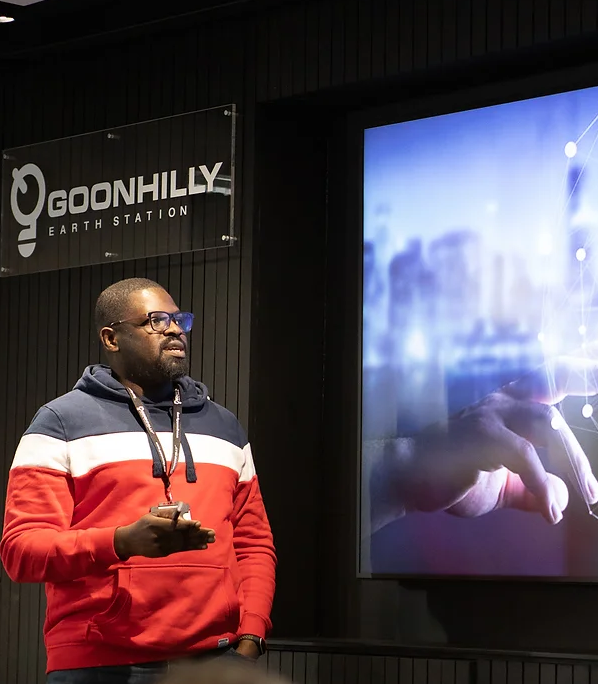
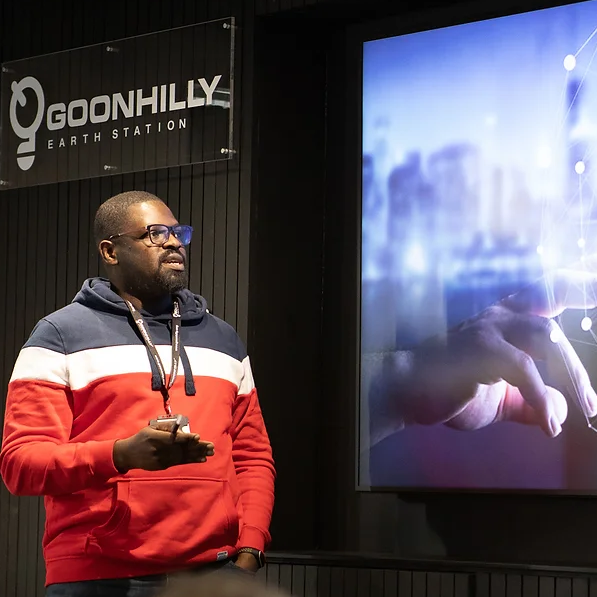
added profile updates

diff --git a/index.html b/index.html
@@ -130,20 +130,39 @@
         <!-- <li class="nav-item"><a href="#" class="nav-link">Reach Out</a></li> -->
       </ul>
     </header>
-    <hr>
+    <hr class="my-hr">
   </div>
   <div class="container col-xxl-8 px-4 py-5">
     <div class="row align-items-center g-5 py-5">
-      <div><h1 class="display-5 fw-bold text-body-emphasis lh-1 mb-3">Edward Efui Salakpi, PhD</h1></div>
-      <div class="col-10 col-sm-8 col-lg-6">
-        <img src="./assets/img/edd-profile.png" class="d-block mx-lg-auto img-fluid" alt="Bootstrap Themes" width="600" height="600" loading="lazy">
+      <div><h1 class="display-5 mb-3 page-heads">Profile</h1></div>
+      <!-- <div><h3 class="display-5 mb-3"></h3></div> -->
+      <div class="col-10 col-sm-8 col-lg-6 home-blocks">
+        <img src="./assets/img/edd-profile.png" class="d-block mx-lg-auto img-fluid" alt="Bootstrap Themes" width="500" height="500" loading="lazy">
       </div>
-      <div class="col-lg-6">
-        <p class="lead">Edward is a Remote Sensing Data Scientist working on the Forth ERA project under Scotland’s International Environment Centre (SIEC). Edwards's research includes applying data-intensive techniques to satellite remote sensing datasets to study rangeland vegetation dynamics and develop models for forecasting agricultural drought.</p>
+      <div class="col-lg-6 home-blocks">
+           <h4>Edward Efui Salakpi, PhD</h4>
+          <p class="lead">Edward is a Lead Remote Sensing Data Scientist working on the Forth ERA project under Scotland’s International Environment Centre (SIEC). Edward's research includes applying data-intensive techniques to satellite remote sensing datasets to study rangeland vegetation dynamics and develop models for forecasting agricultural drought.</p>
+          <p class="lead">Edward has a rich background and experience in Python programming, satellite Earth Observation data processing and analytics, machine learning, Deep Learning, web development, Cloud Computing (DevOps) and information systems architecture. Edward is also an instructor in the MSc. in Data and Information Systems (DIS) program at Osiri University.</p>
+      
+      </div>
+      <div><h1 class="display-5 mb-3 page-heads">Education and Qualification</h1></div>
+      <div class="col-lg-12 home-blocks">
+        <ul class="list-group list-group-flush">
+          <li class="list-group-item">
+            <div class="fw-bold">Ph.D. Data Intensive Science (Astronomy) - University of Sussex, UK (April 2018 to January 2022)</div>
+            Research: Satellite Earth Observation for Drought Modelling
+          </li>
 
-        <p class="lead">Edward has a rich background and experience in Python programming, satellite Earth Observation data processing and analytics, machine learning, web development and information systems architecture. Edward is also an instructor in the MSc. in Data and Information Systems (DIS) program at Osiri University.</p>
-        <div class="d-grid gap-2 d-md-flex justify-content-md-start">
-        </div>
+          <li class="list-group-item">
+            <div class="fw-bold">MSc. Management Information Systems (Distinction) - University of Reading, UK  (October 2015 - November 2016) </div>
+            Courses: Applied Informatics, Business Intelligence, and Data Mining, Organisational Design and Performance Management and Systems analysis and design, Research Methods, Business Domain, and Requirement analysis
+          </li>
+
+          <li class="list-group-item">
+            <div class="fw-bold">BSc. Agricultural Science - University of Ghana, GH  (August 2005 - May 2009) </div>
+            Courses: Applied Informatics, Business Intelligence, and Data Mining, Organisational Design and Performance Management and Systems analysis and design, Research Methods, Business Domain, and Requirement analysis
+          </li>
+        </ul>
       </div>
     </div>
 </div>

diff --git a/projects.html b/projects.html
@@ -139,10 +139,10 @@
         <!-- <li class="nav-item"><a href="#" class="nav-link">Reach Out</a></li> -->
       </ul>
     </header>
-    <hr>
+    <hr class="my-hr">
   </div>
   <div class="container col-xxl-8 px-4 py-5">
-    <div><h3 class="display-5 fw-bold text-body-emphasis lh-1 mb-3">List Of Projects</h3></div>
+    <div><h3 class="display-5 mb-3 page-heads">List Of Projects</h3></div>
     <div class="row align-items-center g-5 py-5">
 
       <div class="col-md-6">
@@ -155,7 +155,7 @@
               The models were trained to forecast the Vegetation Condition Index (VCI) over grasslands that serve as grazing fields for livestock farmers. One of the models from this work has been implemented in decision support tools in Kenya, 
               and forecasts from the model are currently used by institutions like the Kenya Rangeland Trust and Kenya Red Cross for monitoring short-term drought forecasts for early action.</p>
           </p>
-            <a href="#" class="btn btn-outline-light"><svg class="bi" width="22" height="22"><use xlink:href="#github"/></svg> Git Repo</a>
+            <a href="https://github.com/edd3x/Hierarchical-Bayesian-ARDL" class="btn btn-outline-light"><svg class="bi" width="22" height="22"><use xlink:href="#github"/></svg> Git Repo</a>
           </div>
         </div>
        </div>

diff --git a/publications.html b/publications.html
@@ -130,11 +130,11 @@
         <!-- <li class="nav-item"><a href="#" class="nav-link">Reach Out</a></li> -->
       </ul>
     </header>
-    <hr>
+    <hr class="my-hr">
   </div>
   <div class="container col-xxl-8 px-4 py-5">
     <div class="row align-items-center g-5 py-5">
-      <div><h3 class="display-5 fw-bold text-body-emphasis lh-1 mb-3">List Of Publications</h3></div>
+      <div><h3 class="display-5 mb-3 page-heads">List Of Publications</h3></div>
       <div class="col-lg-12">
         <ul class="list-group">
           <li class="list-group-item">Barons MJ, Walsh LE, Salakpi EE, Nichols L. A Decision Support System for Sustainable Agriculture and Food Loss Reduction under Uncertain Agricultural Policy Frameworks. Agriculture. 2024; 14(3):458. https://doi.org/10.3390/agriculture14030458</li>

diff --git a/page.css b/page.css
@@ -13,3 +13,13 @@
 .dropdown-toggle:not(:focus) {
   outline: 0;
 }
+
+.my-hr, .home-blocks{
+  margin-top: 5px;
+}
+
+.page-heads{
+  border-bottom-style: solid;
+  border-bottom-width: thin;
+}
+
